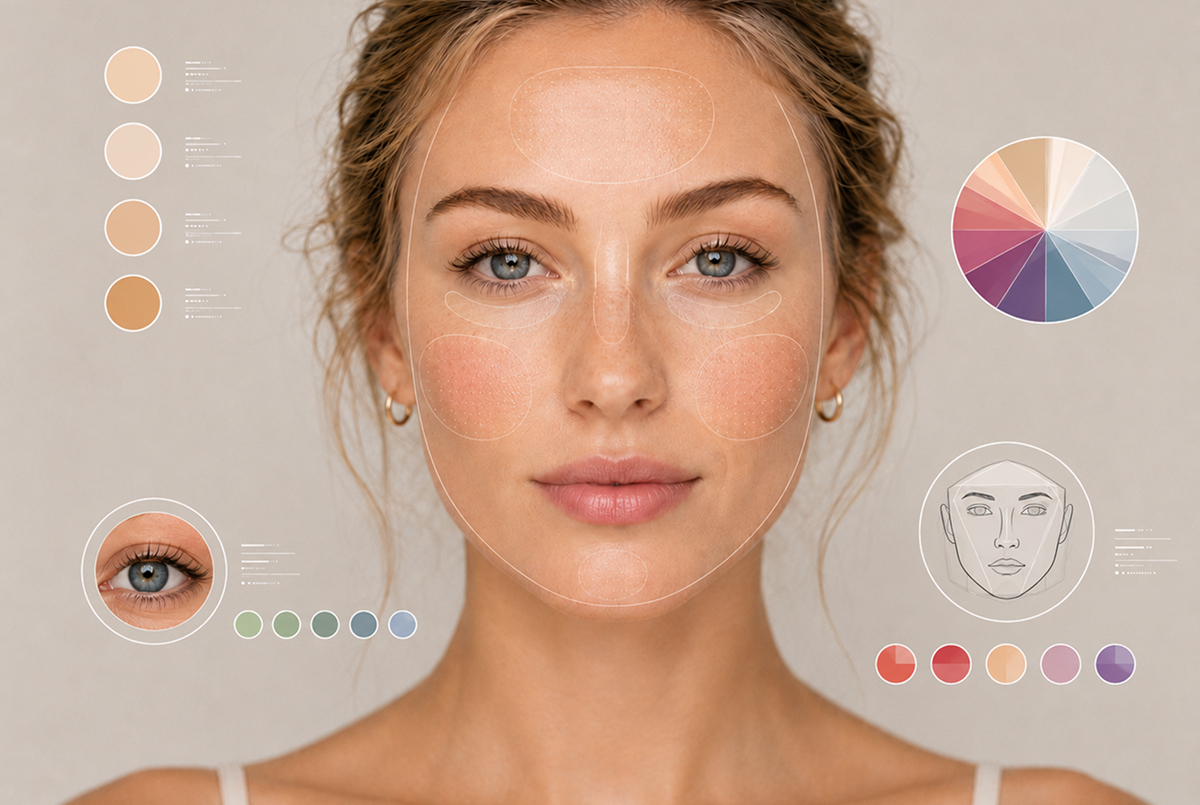
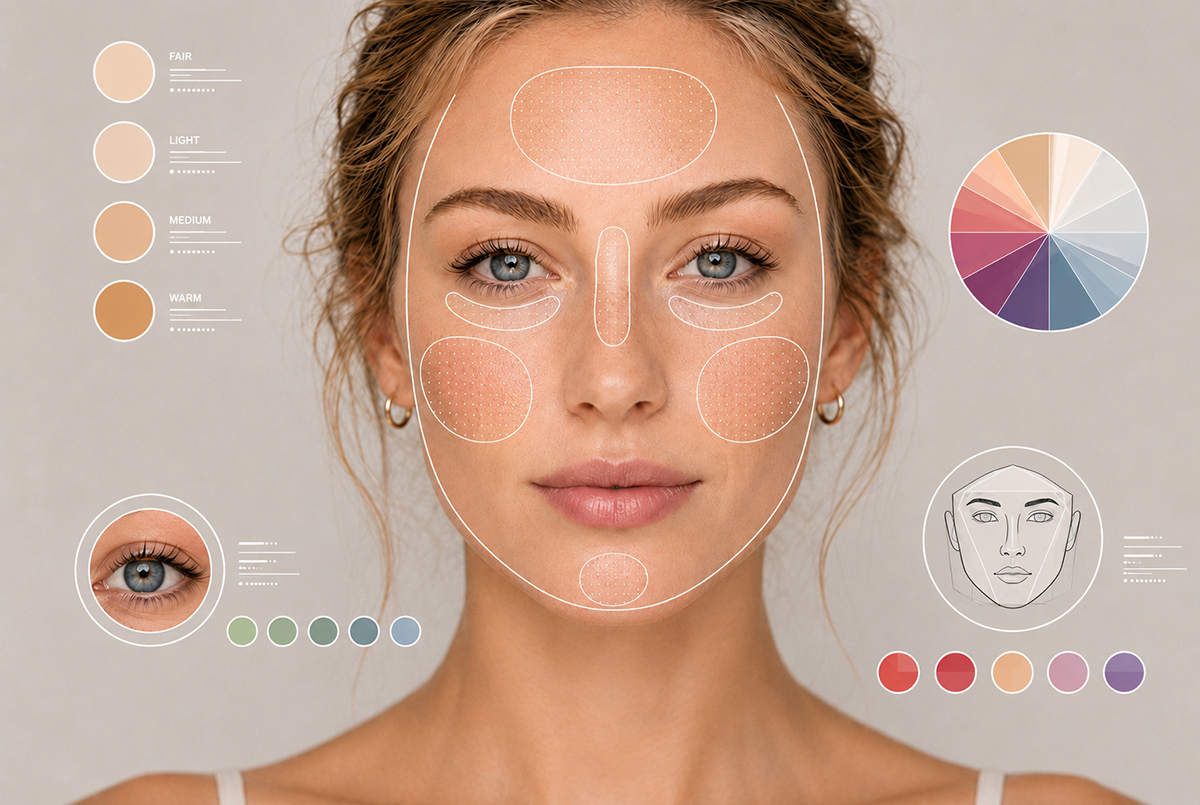
Clothes Try-on Studio card image: jpg -> png; pick up higher-quality Facial Consultant re-export

diff --git a/js/main.js b/js/main.js
@@ -479,7 +479,7 @@
       title: 'Clothes Try-on Studio',
       desc: 'Dresses a model in the provided outfit, optionally changes the background, and generates a turn, runway walk, or pose motion.',
       pills: ['AI Clothes', 'AI Change Background', 'AI Video Generator'],
-      images: ['assets/connect/skills/clothes-tryon-studio.jpg']
+      images: ['assets/connect/skills/clothes-tryon-studio.png']
     }
   ];
 
